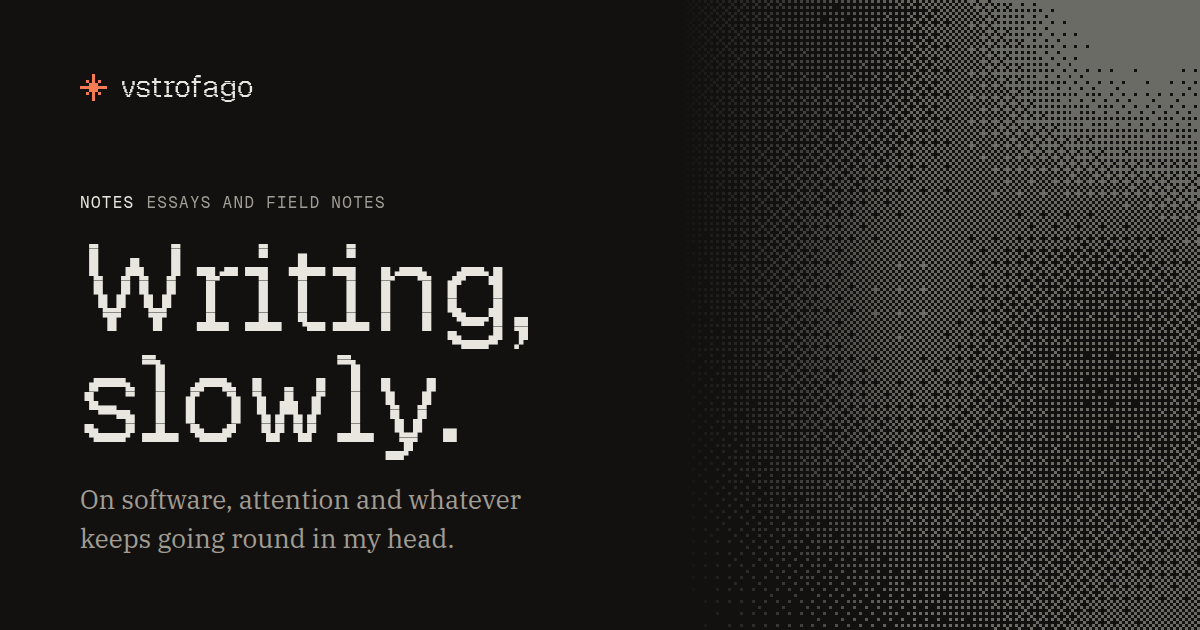
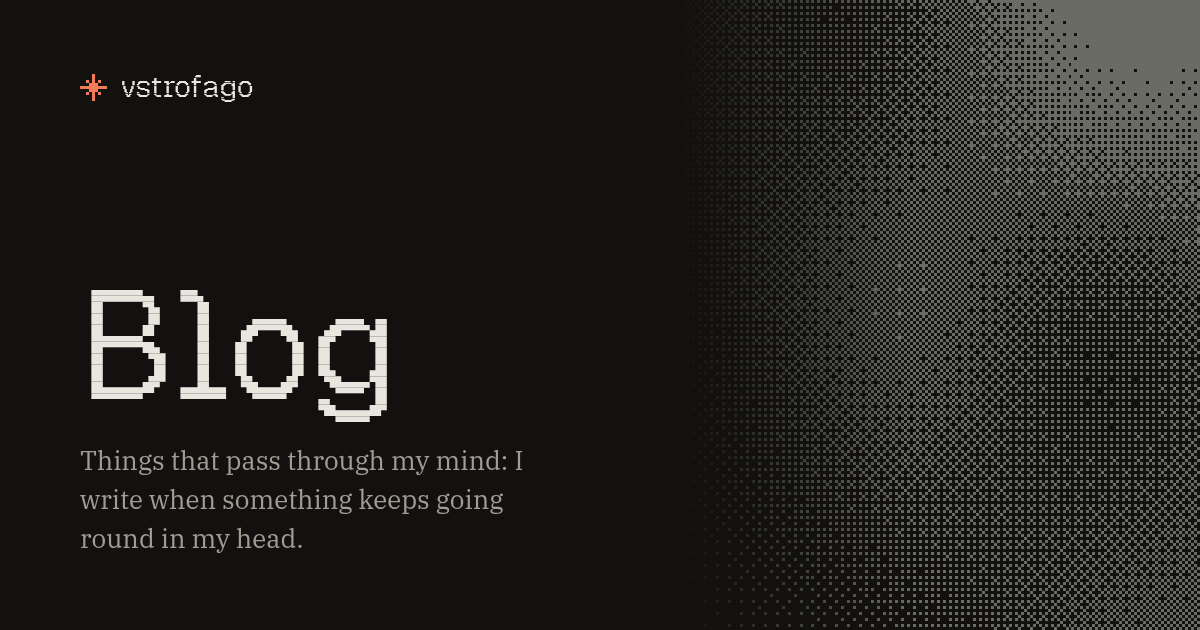
feat(theme): portada simple («Blog») y entradas solo de texto
- La portada vuelve a «Blog» con el texto de antes, sin rótulo encima.
- Las entradas son solo texto: fuera la placa (imagen o dither Bayer),
  su CSS, su JS, sus textos y los campos image/caption del arquetipo.
- La tarjeta Open Graph repite la portada nueva.

Claude-Session: https://claude.ai/code/session_017Hr7snapUMm14vPgjN99TJ

diff --git a/themes/stoico/assets/js/stoico.js b/themes/stoico/assets/js/stoico.js
@@ -3,8 +3,7 @@
      [data-progress]      the reading-progress hairline on a note
      [data-copy-code]     copy a code block
      [data-copy-link]     copy the note's URL
-     canvas[data-bayer]   BayerField (Stoico components/motion/BayerField.jsx), a still plate
-   Every storage and clipboard access fails quietly. Nothing animates under reduced motion. */
+   Every storage and clipboard access fails quietly. */
 (() => {
   const root = document.documentElement;
 
@@ -21,7 +20,6 @@
     root.dataset.theme = next;
     try { localStorage.setItem('stoico-theme', next); } catch (e) { /* this page only */ }
     syncTheme();
-    document.dispatchEvent(new CustomEvent('stoico:theme'));
   }));
   syncTheme();
 
@@ -67,61 +65,4 @@
     const link = document.querySelector('link[rel="canonical"]');
     try { await copyText(link ? link.href : location.href); confirm(btn); } catch (e) { /* nothing copied */ }
   }));
-
-  /* BayerField: 8×8 ordered dither, diagonal falloff modulated by a slow wave. Algorithm
-     and matrix are the system's; here it only ever draws still frames (`data-seed` picks
-     the frame). Colour comes from the canvas' CSS color and follows the theme. */
-  const BAYER = (() => {
-    let matrix = [[0, 2], [3, 1]];
-    let size = 2;
-    const quadrant = [[0, 2], [3, 1]];
-    while (size < 8) {
-      const expanded = Array.from({ length: size * 2 }, () => new Array(size * 2));
-      for (let y = 0; y < size * 2; y += 1) {
-        for (let x = 0; x < size * 2; x += 1) {
-          expanded[y][x] = 4 * matrix[y % size][x % size] + quadrant[Math.floor(y / size)][Math.floor(x / size)];
-        }
-      }
-      matrix = expanded;
-      size *= 2;
-    }
-    return matrix;
-  })();
-  document.querySelectorAll('canvas[data-bayer]').forEach((canvas) => {
-    const context = canvas.getContext('2d');
-    if (!context) return;
-    const cell = Number(canvas.dataset.cell || 3);
-    const time = Number(canvas.dataset.seed || 1.3);
-    let image = null;
-    const draw = () => {
-      const width = Math.max(1, Math.ceil(canvas.clientWidth / cell));
-      const height = Math.max(1, Math.ceil(canvas.clientHeight / cell));
-      if (canvas.width !== width || canvas.height !== height || !image) {
-        canvas.width = width;
-        canvas.height = height;
-        image = context.createImageData(width, height);
-      }
-      const [red, green, blue] = (getComputedStyle(canvas).color.match(/[\d.]+/g) || [128, 128, 128]).map(Number);
-      const pixels = image.data;
-      for (let y = 0; y < height; y += 1) {
-        const ny = y / height;
-        for (let x = 0; x < width; x += 1) {
-          const nx = x / width;
-          const base = 1 - (nx * 0.55 + ny * 0.45);
-          const wave = 0.5 + 0.5 * Math.sin(nx * 6 + time * 0.9) * Math.cos(ny * 5 - time * 0.7);
-          const value = base * (0.35 + 0.9 * wave);
-          const offset = (y * width + x) * 4;
-          if (value > (BAYER[y & 7][x & 7] + 0.5) / 64) {
-            pixels[offset] = red; pixels[offset + 1] = green; pixels[offset + 2] = blue; pixels[offset + 3] = 255;
-          } else {
-            pixels[offset + 3] = 0;
-          }
-        }
-      }
-      context.putImageData(image, 0, 0);
-    };
-    draw();
-    if (typeof ResizeObserver !== 'undefined') new ResizeObserver(draw).observe(canvas);
-    document.addEventListener('stoico:theme', draw);
-  });
 })();

diff --git a/themes/stoico/layouts/single.html b/themes/stoico/layouts/single.html
@@ -7,10 +7,8 @@
 <div class="ed-read ed-prose">{{ .Content }}</div>
 <div class="ed-spacer"></div>
 {{- else -}}
-{{- /* A note (EdArticle, E01 Literary): reading-progress hairline, a 680px header with
-       the pixel title and an italic serif dek, a plate set off-grid in a 1:2 grid, then
-       the body in Plex Serif 20/1.72. The plate is the post's `image` if it has one;
-       otherwise a still Bayer dither seeded from the title stands in for it. */ -}}
+{{- /* A note (EdArticle): only text. A reading-progress hairline, a 680px header with
+       the pixel title and an italic serif dek, then the body in Plex Serif 20/1.72. */ -}}
 {{- $dek := .Params.deck | default (.Summary | plainify) -}}
 <div class="ed-progress" data-progress aria-hidden="true"></div>
 <article class="ed-article">
@@ -20,22 +18,6 @@
     <h1 class="ed-article__title">{{ .Title }}</h1>
     {{- with $dek }}<p class="ed-article__dek">{{ . }}</p>{{ end }}
   </header>
-
-  {{- if not .Params.noPlate }}
-  <div class="ed-wide ed-plate">
-    <div></div>
-    <figure class="st-frame">
-      <div class="st-frame__media" style="aspect-ratio:16 / 9">
-        {{- with .Params.image }}
-        <img src="{{ . | relURL }}" alt="{{ $.Params.imageAlt }}" loading="lazy" decoding="async">
-        {{- else }}
-        <div class="plate"><canvas class="bayer-field" data-bayer data-still data-cell="2" data-seed="{{ div (mod (hash.FNV32a .Title) 1000) 100.0 }}" aria-hidden="true"></canvas></div>
-        {{- end }}
-      </div>
-      <figcaption class="st-frame__caption"><span class="st-frame__index">Fig. 01</span><span>{{ .Params.caption | default (i18n "plateCaption") }}</span></figcaption>
-    </figure>
-  </div>
-  {{- end }}
 
   <div class="ed-read">
     {{ partial "toc.html" . }}

diff --git a/themes/stoico/assets/css/site.css b/themes/stoico/assets/css/site.css
@@ -27,7 +27,7 @@ main:focus { outline: none; }
 .st-wordmark { display: inline-flex; align-items: center; gap: calc(var(--wordmark-size) * 0.45); font-family: var(--font-pixel); font-size: var(--wordmark-size); line-height: 1; letter-spacing: -0.01em; color: var(--fg); }
 .st-icon-svg { flex: none; display: inline-block; }
 /* motion.css paints the Mark in --animation-foreground, which is always the dark-theme
-   ink. Outside a dark plate it follows the text colour instead. */
+   ink. Outside the ink byline square it follows the text colour instead. */
 .st-wordmark .animation-mark, .ed-404__mark .animation-mark { color: inherit; }
 /* base.css styles every `.stoico a` (0,1,1), above the single-class components; restate
    what an anchor-rendered component needs. */
@@ -124,13 +124,6 @@ main:focus { outline: none; }
   .ed-article__title { font-size: clamp(36px, 10.5vw, 56px); line-height: 1; }
   .ed-article__dek { font-size: 19px; }
 }
-
-/* The plate: a 1:2 grid, the image in the wider column, off the reading axis. */
-.ed-plate { display: grid; grid-template-columns: 1fr 2fr; gap: var(--space-6); margin-bottom: var(--space-9); }
-.ed-plate .st-frame__media { background: var(--ink); }
-.plate { position: absolute; inset: 0; }
-.plate .bayer-field { color: var(--gray-600); -webkit-mask-image: none; mask-image: none; }
-@media (max-width: 720px) { .ed-plate { grid-template-columns: minmax(0, 1fr); margin-bottom: var(--space-8); } .ed-plate > div:first-child { display: none; } }
 
 /* Reading type: Plex Serif 20/1.72 in a 680px column. Section heads in Geist.
    Prefixed with .stoico where base.css zeroes margins on h1–h4 and p. */

diff --git a/themes/stoico/layouts/_markup/render-image.html b/themes/stoico/layouts/_markup/render-image.html
@@ -1,9 +1,9 @@
-{{- /* Stoico <Frame>: radius 0, a mono index ("Fig. 02", counted after the lead plate)
+{{- /* Stoico <Frame>, for the rare image in a note: radius 0, a mono index ("Fig. 01")
        and the Markdown title as caption. */ -}}
 {{- $alt := .PlainText | default .Text -}}
 <figure class="st-frame ed-figure">
   <div class="st-frame__media"><img src="{{ .Destination | safeURL }}" alt="{{ $alt }}" loading="lazy" decoding="async"></div>
   {{- with .Title }}
-  <figcaption class="st-frame__caption"><span class="st-frame__index">Fig. {{ printf "%02d" (add $.Ordinal 2) }}</span><span>{{ . }}</span></figcaption>
+  <figcaption class="st-frame__caption"><span class="st-frame__index">Fig. {{ printf "%02d" (add $.Ordinal 1) }}</span><span>{{ . }}</span></figcaption>
   {{- end }}
 </figure>

diff --git a/themes/stoico/layouts/home.html b/themes/stoico/layouts/home.html
@@ -4,7 +4,7 @@
 {{- $limit := site.Params.homeLimit | default 5 -}}
 {{- $info := site.Params.homeInfoParams -}}
 <div class="ed-wide ed-index">
-  {{ partial "page-head.html" (dict "index" (i18n "notes") "label" (i18n "indexLabel") "title" ($info.Title | default site.Title) "lead" ($info.Content | markdownify)) }}
+  {{ partial "page-head.html" (dict "title" ($info.Title | default site.Title) "lead" ($info.Content | markdownify)) }}
 
   {{- with site.Taxonomies.tags.ByCount }}
   <nav class="ed-topics" aria-label="{{ i18n "tags" }}">

diff --git a/themes/stoico/layouts/_partials/page-head.html b/themes/stoico/layouts/_partials/page-head.html
@@ -1,6 +1,8 @@
-{{- /* Header of an index page: label, pixel headline, serif lead. */ -}}
+{{- /* Header of an index page: an optional label, the pixel headline, a serif lead. */ -}}
 <header class="ed-page-head">
+  {{- if or .index .label }}
   <p class="st-label">{{ with .index }}<span class="st-label__index">{{ . }}</span>{{ end }}{{ .label }}</p>
+  {{- end }}
   <h1 class="ed-display{{ if .small }} ed-display--s{{ end }}">{{ .title }}</h1>
   {{- with .lead }}<div class="ed-lead">{{ . }}</div>{{ end }}
 </header>

diff --git a/README.md b/README.md
@@ -36,7 +36,7 @@ themes/stoico/                     # the theme: layouts, css, js, i18n, static
   layouts/_markup/                 # code blocks (Stoico Code block) and figures (Stoico Frame)
   assets/css/stoico/               # the design system's tokens/ and components/, verbatim
   assets/css/                      # chroma.css (syntax colours on tokens) + site.css (layout)
-  assets/js/                       # stoico.js (theme, progress, copy, Bayer plate) + search.js
+  assets/js/                       # stoico.js (theme, reading progress, copy) + search.js
   data/octicons.json               # the Octicon paths the theme uses
   static/fonts/                    # self-hosted WOFF2 subsets + licences
   static/img/                      # favicon (svg + png 180) and the 1200x630 Open Graph card
@@ -51,12 +51,11 @@ scripts/publish-theme.sh           # one-way export of themes/plano to its own r
 `themes/stoico` follows **Stoico** (built in Claude Design): one philosophy, four voices.
 The blog is the **Editorial** voice in mode **E01 Literary**:
 
-- Notes index: a pixel headline ("Writing, slowly."), a serif lead, topics as tags, then a
-  numbered list separated by hairlines (number · title and dek · date, minutes, topic).
-- A note: a reading-progress hairline, the title in Geist Pixel, an italic serif dek, a
-  plate set off the reading axis (the post's `image`, or a still Bayer dither seeded from
-  the title), then the body in IBM Plex Serif 20/1.72 in a 680px column. The foot carries
-  the topics, a byline with the pixel star and "Copy link", and previous / next.
+- Notes index: the headline "Blog" in Geist Pixel and a one-line serif lead, topics as tags,
+  then a numbered list separated by hairlines (number · title and dek · date, minutes, topic).
+- A note is only text: a reading-progress hairline, the title in Geist Pixel, an italic serif
+  dek, then the body in IBM Plex Serif 20/1.72 in a 680px column. The foot carries the
+  topics, a byline with the pixel star and "Copy link", and previous / next.
 - Type has one job per face: Geist Pixel for headlines and the name *vstrofago* (always
   lowercase), Geist for interface and section heads, Geist Mono for labels and code, IBM
   Plex Serif for reading.
@@ -71,7 +70,7 @@ so font URLs follow `baseURL`). Don't edit those files; copy them again when the
 changes. Everything else in `site.css` uses tokens only.
 
 Front matter the theme understands, beyond Hugo's own: `deck` (the dek; defaults to the
-summary), `image` / `imageAlt` / `caption` (the lead plate), `noPlate: true` (no plate).
+summary).
 
 ## Adding content
 

diff --git a/archetypes/default.md b/archetypes/default.md
@@ -6,8 +6,5 @@ tags: []
 categories: ["blog"]
 translationKey: "{{ .Name }}"
 summary: ""
-# deck: ""        # the italic line under the title; defaults to the summary
-# image: ""       # the lead plate; without it, a Bayer dither stands in
-# imageAlt: ""
-# caption: ""
+# deck: ""   # the italic line under the title; defaults to the summary
 ---

diff --git a/themes/stoico/archetypes/default.md b/themes/stoico/archetypes/default.md
@@ -6,8 +6,5 @@ tags: []
 categories: ["blog"]
 translationKey: "{{ .Name }}"
 summary: ""
-# deck: ""        # the italic line under the title; defaults to the summary
-# image: ""       # the lead plate; without it, a Bayer dither stands in
-# imageAlt: ""
-# caption: ""
+# deck: ""   # the italic line under the title; defaults to the summary
 ---
